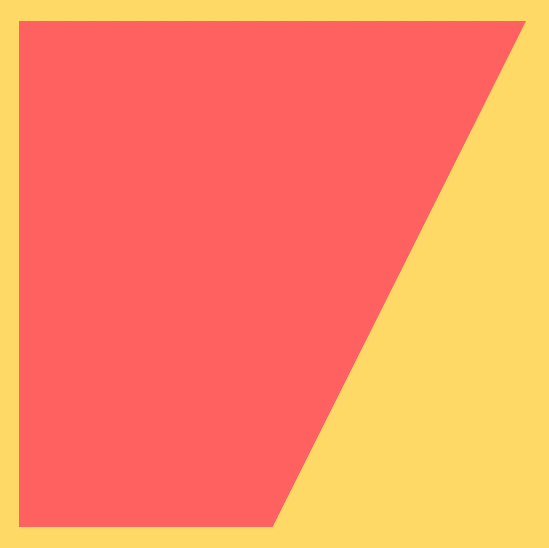
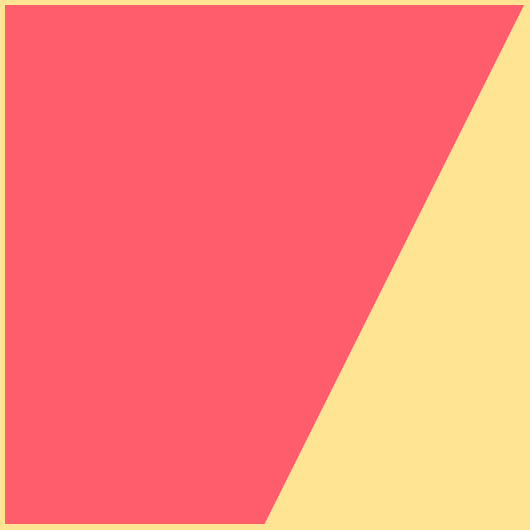
세부 업데이트
- 배경 이미지 추가
- 버튼 추가
- 뒤집기 버튼 위치 변경 및 퀴즈 선택
- 세부 디자인 변경

diff --git a/style.css b/style.css
@@ -1,19 +1,57 @@
 .teacher-toggle-btn {
-	position:fixed;
-	top:16px;
-	right:32px;
-	z-index:100;
-	width:160px;
-	height:70px;
-	font-size:24px;
-    background: #ffe066;
-    border: 2px solid #a67c52;
-    color: #775737;
-    border-radius: 12px;
+	position: fixed;
+	width: 220px;
+    height: 120px;
+	top: 16px;
+	right: 32px;
+    background: url('ui/teacher_button.png') center center / cover no-repeat;
+    cursor: pointer;
+    font-size: 24px;
+    color: #7b540c;
+    font-weight: bold;
+    border: none;
 }
 
-.teacher-toggle-btn:hover {
-    background: #e0c453;
+.pressed {
+	position: fixed;
+	width: 220px;
+    height: 120px;
+	top: 16px;
+	right: 32px;
+    background: url('ui/teacher_button_pressed.png') center center / cover no-repeat !important;
+    cursor: pointer;
+    font-size: 24px;
+    color: #7b540c;
+    font-weight: bold;
+    border: none;
+}
+
+.lobby-btn {
+	position: fixed;
+	width: 220px;
+    height: 120px;
+	top: 142px;
+	right: 32px;
+    background: url('ui/button_lobby.png') center center / cover no-repeat;
+    cursor: pointer;
+    font-size: 24px;
+    color: #7b540c;
+    font-weight: bold;
+    border: none;
+}
+
+#flip-btn {
+	position: fixed;
+	width: 220px;
+    height: 120px;
+	top: 572px;
+	right: 32px;
+    background: url('ui/button_flip.png') center center / cover no-repeat;
+    cursor: pointer;
+    font-size: 24px;
+    color: #0c7b19;
+    font-weight: bold;
+    border: none;
 }
 
 .teacher-ui {
@@ -43,8 +81,8 @@
 	min-height: 64px;
 }
 .palette-img {
-	width: 128px;
-	height: 128px;
+	width: 96px;
+	height: 96px;
 	border: 2px solid #aaa;
 	background: #fff;
 	cursor: pointer;
@@ -57,23 +95,23 @@
 .answer-indicator {
 	margin-top: 8px;
 	font-size: 1.1em;
-	color: #007bff;
+	color: #ff5500;
 	font-weight: bold;
 }
 #answer-img {
 	margin-top: 50px;
 	width: 420px;
 	height: 140px;
-	border: 2px solid #0000ff;
+	border: 4px solid #000000;
 }
 .card.selected-card {
 	background-color: #ff9e66 !important;
-	box-shadow: 0 0 0 3px #ffd700 inset;
+	box-shadow: 0 0 0 3px #ffe593 inset;
 	transition: background 0.2s;
 }
 body {
 	font-family: 'Segoe UI', sans-serif;
-	background: #f7f3e9;
+	background: url('ui/background.png') center center / cover no-repeat fixed;
 	margin: 0;
 	padding: 0;
 	text-align: center;
@@ -134,9 +172,8 @@ h1 {
 .card {
 	width: 130px;
 	height: 130px;
-	background: #ffe066;
+	background: #ffe593;
 	border-radius: 0;
-	/* 그림자, 효과 제거 */
 	box-shadow: none;
 	display: flex;
 	align-items: center;
@@ -151,15 +188,4 @@ h1 {
 }
 .card.dragging {
 	opacity: 0.6;
-}
-
-#flip-btn {
-	font-size: 18px;
-	margin-top: 20px;
-	width: 200px;
-	height: 48px;
-    background: #ffe066;
-    border: 2px solid #a67c52;
-    color: #775737;
-    border-radius: 12px;
 }

diff --git a/stage.css b/stage.css
@@ -4,6 +4,10 @@
     padding: 16px;
 }
 
+html {
+    background: url('ui/background.png') center center / cover no-repeat fixed;
+}
+
 .stage-list {
     display: grid;
     grid-template-columns: repeat(5, 1fr);
@@ -13,17 +17,16 @@
 }
 
 .stage-btn {
-    width: 180px;
+    width: 220px;
     height: 120px;
-    background: #ffe066;
-    border: 2px solid #a67c52;
-    color: #775737;
-    border-radius: 12px;
+    background: url('ui/button.png') center center / cover no-repeat;
     cursor: pointer;
-    font-size: 24px;
+    font-size: 28px;
+    color: #7b540c;
     font-weight: bold;
+    border: none;
 }
 
 .stage-btn:hover {
-    background: #ffd700;
+
 }

diff --git a/script.js b/script.js
@@ -243,9 +243,20 @@ function renderTeacherUI() {
 }
 
 // 선생님 모드 토글 버튼
-document.getElementById('teacher-toggle-btn').addEventListener('click', function() {
+const teacherBtn = document.getElementById('teacher-toggle-btn')
+teacherBtn.addEventListener('click', function() {
 	teacherMode = !teacherMode;
+	if (teacherMode) {
+		teacherBtn.classList.add('pressed');
+	} else {
+		teacherBtn.classList.remove('pressed');
+	}
 	renderTeacherUI();
+});
+
+// 로비 버튼
+document.getElementById('lobby-btn').addEventListener('click', function() {
+	window.location.href = 'stage.html';
 });
 
 // 셀 클릭 시 그림 배치 (선생님 모드)

diff --git a/index.html b/index.html
@@ -8,6 +8,8 @@
 </head>
 <body>
 	<button id="teacher-toggle-btn" class="teacher-toggle-btn">선생님 모드</button>
+	<button id="lobby-btn" class="lobby-btn">퀴즈 선택</button>
+	<button id="flip-btn">뒤집기</button>
 	<div class="teacher-ui" id="teacher-ui" style="display:none;">
 		<div class="teacher-left">
 			<div>현재 선택된 그림</div>
@@ -30,7 +32,6 @@
 			<!-- JS에서 슬롯 생성 -->
 		</div>
 	</div>
-	<button id="flip-btn">뒤집기</button>
 	<script>
 		// quiz 번호 파싱해서 window.quizNum에 저장
 		const params = new URLSearchParams(window.location.search);
